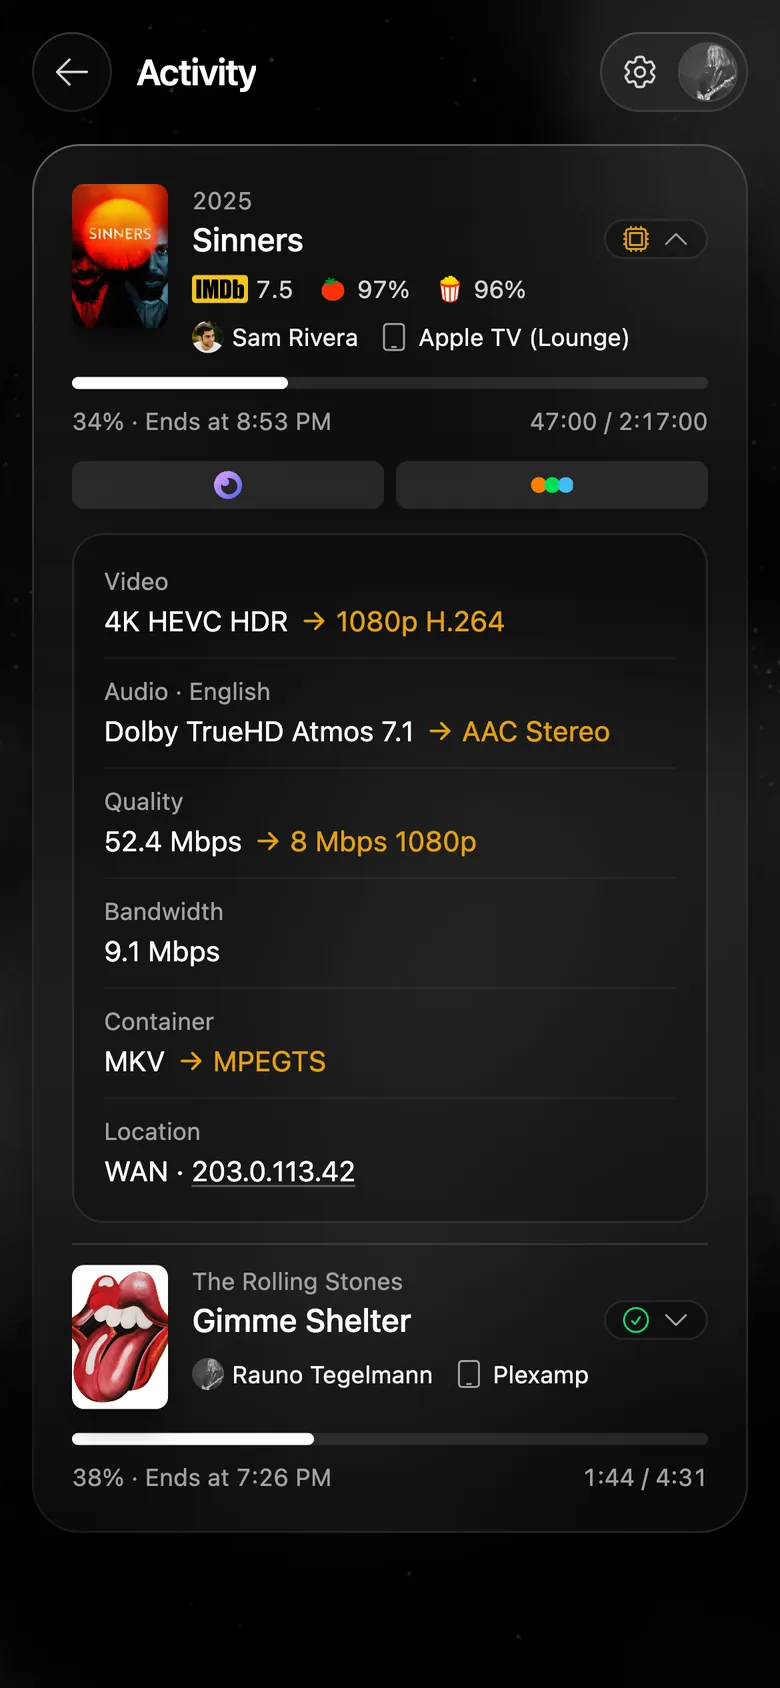
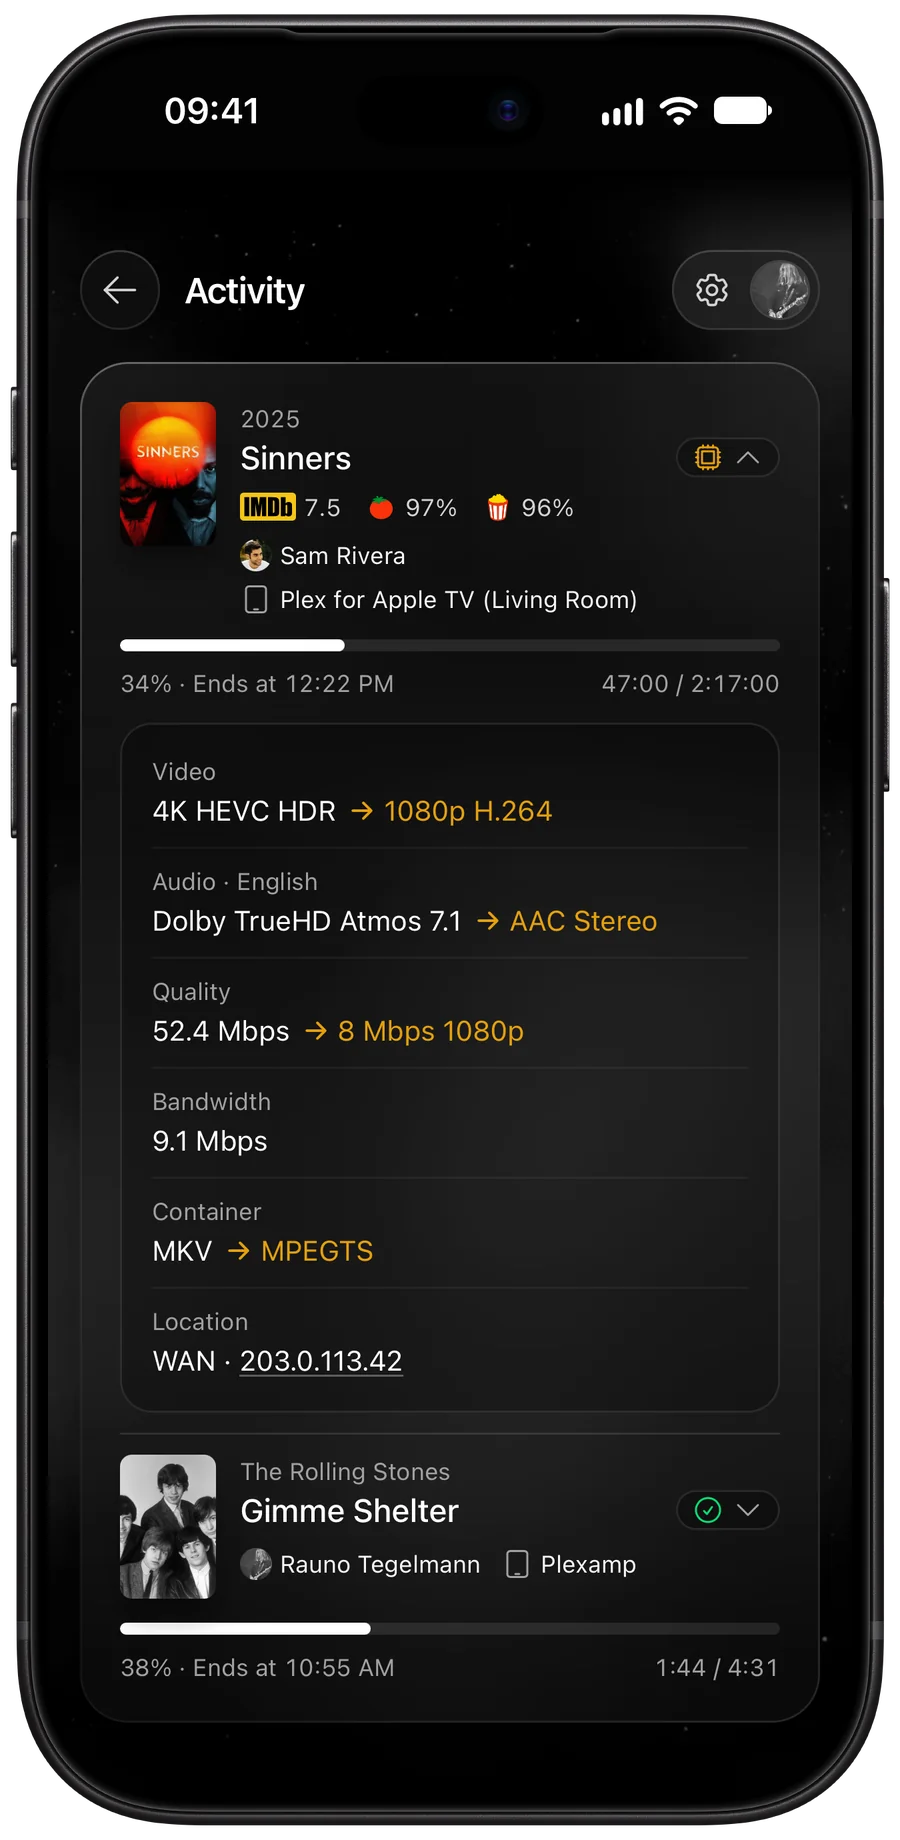
docs(website): use framed iPhone screenshots and tighten the copy
- Phone screenshots taken in the installed web app with the mock server,
  in Apple's iPhone 18 Pro frame, the two of a pair drifting in opposite
  directions
- Nav links highlight the section in view
- Shorter Rewind list, dashboard and binge lines, languages and install note
- Umami Cloud page views, og:site_name, image size and alt, a shorter
  description, and the Plex link to its media page
- The mock server takes artist photos from TheAudioDB, falling back to Deezer

diff --git a/website/index.html b/website/index.html
@@ -6,11 +6,12 @@
     <title>Rewindarr: your Plex and Jellyfin year, rewound</title>
     <meta
       name="description"
-      content="A self-hosted rewind for your media server. Wrapped-style stories for every user, a dashboard, live activity and history for Plex and Jellyfin, from Tautulli or Tracearr."
+      content="A self-hosted rewind for Plex and Jellyfin. Wrapped-style stories for every user, plus a dashboard, live activity and history, from Tautulli or Tracearr."
     />
     <meta name="theme-color" content="#000000" />
     <link rel="canonical" href="https://rewindarr.eu/" />
     <meta property="og:type" content="website" />
+    <meta property="og:site_name" content="Rewindarr" />
     <meta property="og:url" content="https://rewindarr.eu/" />
     <meta property="og:title" content="Rewindarr" />
     <meta
@@ -18,10 +19,22 @@
       content="Your Plex and Jellyfin year, rewound. Free, open source and self-hosted."
     />
     <meta property="og:image" content="https://rewindarr.eu/assets/og.jpg" />
+    <meta property="og:image:width" content="1200" />
+    <meta property="og:image:height" content="630" />
+    <meta
+      property="og:image:alt"
+      content="The Rewindarr logo with the line: Your Plex and Jellyfin year, rewound"
+    />
     <meta name="twitter:card" content="summary_large_image" />
     <link rel="icon" href="assets/rewindarr.svg" type="image/svg+xml" />
     <link rel="apple-touch-icon" href="assets/apple-icon.png" />
     <link rel="stylesheet" href="styles.css" />
+    <script
+      defer
+      src="https://cloud.umami.is/script.js"
+      data-website-id="4a7a21c5-b256-45b1-b7ee-c4c364bb8168"
+      data-domains="rewindarr.eu"
+    ></script>
   </head>
   <body>
     <div class="sky" aria-hidden="true"></div>
@@ -143,19 +156,11 @@
             Each user steps through their year one stat at a time.
           </p>
           <ul class="checks">
-            <li>
-              Top movies, shows and artists, plus the actors and directors.
-            </li>
-            <li>
-              The busiest month, the biggest binge and the favourite hour.
-            </li>
-            <li>
-              How each user ranks against everyone else, and who shares their
-              taste.
-            </li>
-            <li>A viewing personality that sums up the year.</li>
+            <li>The year's favourite movies, shows and music.</li>
+            <li>When and how they watched, all year long.</li>
+            <li>How users rank against each other.</li>
+            <li>A personal viewing personality that sums up the year.</li>
             <li>A summary card to save and share.</li>
-            <li>Custom period, release date and background music.</li>
           </ul>
         </div>
         <div class="phones">
@@ -163,8 +168,8 @@
             <img
               src="assets/rewind-summary.webp"
               alt="A Rewind summary card with a viewing personality, top show, movie and artist, and the highlights of the year"
-              width="780"
-              height="1688"
+              width="900"
+              height="1840"
               loading="lazy"
             />
           </figure>
@@ -172,8 +177,8 @@
             <img
               src="assets/rewind-shows.webp"
               alt="A Rewind story on shows: total time, share of playtime, episodes watched and the favourite show"
-              width="780"
-              height="1688"
+              width="900"
+              height="1840"
               loading="lazy"
             />
           </figure>
@@ -185,8 +190,8 @@
           <p class="eyebrow">Dashboard</p>
           <h2>Your server's favourites, all year round.</h2>
           <p class="showcase-lead">
-            The most watched movies, shows and music, and who's watching the
-            most, from now back to day one.
+            The top movies, shows and music, and your biggest watchers, from the
+            past week back to day one.
           </p>
           <ul class="checks">
             <li>Ratings from IMDb, TMDB and Rotten Tomatoes on every title.</li>
@@ -199,8 +204,8 @@
             <img
               src="assets/dashboard-phone.webp"
               alt="The movie dashboard for the past year, ranking the most watched movies with ratings, watch time, plays and users"
-              width="780"
-              height="1688"
+              width="900"
+              height="1840"
               loading="lazy"
             />
           </figure>
@@ -208,8 +213,8 @@
             <img
               src="assets/dashboard-users.webp"
               alt="The users dashboard for the past year, ranking everyone by watch time with their plays and requests"
-              width="780"
-              height="1688"
+              width="900"
+              height="1840"
               loading="lazy"
             />
           </figure>
@@ -226,7 +231,9 @@
             browse and search past plays and requests.
           </p>
           <ul class="checks">
-            <li>Binges grouped together, so a season reads as one.</li>
+            <li>
+              Back-to-back plays of one show or artist grouped into a binge.
+            </li>
             <li>Play time, plays, requests and users for any period.</li>
           </ul>
         </div>
@@ -235,8 +242,8 @@
             <img
               src="assets/activity-phone.webp"
               alt="The activity page with a movie being transcoded, its stream details open, and a song playing below"
-              width="780"
-              height="1688"
+              width="900"
+              height="1840"
               loading="lazy"
             />
           </figure>
@@ -244,8 +251,8 @@
             <img
               src="assets/history-phone.webp"
               alt="The history page with play time, plays and users for the last 30 days, followed by recent plays"
-              width="780"
-              height="1688"
+              width="900"
+              height="1840"
               loading="lazy"
             />
           </figure>
@@ -311,8 +318,8 @@
             </svg>
             <h3>Six languages</h3>
             <p>
-              English (UK and US), Estonian, French, German, Italian and
-              Spanish, following each user's browser language.
+              English, Estonian, French, German, Italian and Spanish, following
+              each user's browser language.
             </p>
           </article>
           <article class="feature">
@@ -340,7 +347,7 @@
           <div class="compat-row">
             <a
               class="compat-logo-link"
-              href="https://www.plex.tv"
+              href="https://www.plex.tv/your-media/"
               target="_blank"
               rel="noopener"
             >
@@ -475,7 +482,7 @@
             >
               <path d="M4.5 11.5 11.5 4.5M5.5 4.5h6v6" /></svg
           ></a>
-          for optional settings and how to update.
+          for optional settings.
         </p>
       </section>
 
@@ -551,6 +558,29 @@
 
       updateNav()
       window.addEventListener('scroll', updateNav, { passive: true })
+
+      // Highlights the link of the section a third of the way down the
+      // screen, and none over the sections without one
+      const navLinks = [...document.querySelectorAll('.nav-links a')]
+      const updateCurrent = () => {
+        const line = window.innerHeight / 3
+
+        navLinks.forEach((link) => {
+          const { top, bottom } = document
+            .querySelector(link.hash)
+            .getBoundingClientRect()
+
+          if (top <= line && bottom > line) {
+            link.setAttribute('aria-current', 'location')
+          } else {
+            link.removeAttribute('aria-current')
+          }
+        })
+      }
+
+      updateCurrent()
+      window.addEventListener('scroll', updateCurrent, { passive: true })
+      window.addEventListener('resize', updateCurrent)
 
       // The page ships with recent numbers and swaps in live ones when it
       // can. A failed request, such as a rate-limited one, keeps them.

diff --git a/website/styles.css b/website/styles.css
@@ -272,8 +272,14 @@ code {
     text-decoration: none;
     transition: color 0.2s;
 
-    &:hover {
+    &:hover,
+    &[aria-current] {
       color: var(--text);
+    }
+
+    &[aria-current] {
+      text-decoration: underline 2px var(--gold);
+      text-underline-offset: 0.5rem;
     }
   }
 }
@@ -385,7 +391,8 @@ main > section {
   gap: 2.5rem;
 }
 
-/* Phone-sized screenshots, a pair staggered so they read as a set */
+/* Screenshots of the installed app in an iPhone frame, a pair staggered so
+   they read as a set */
 .phones {
   display: flex;
   justify-content: center;
@@ -396,17 +403,11 @@ main > section {
 .phone {
   flex: 0 1 17rem;
   margin: 0;
-  padding: 0.375rem;
-  border-radius: 2.25rem;
-  background: var(--glass);
-  box-shadow:
-    inset 0 0 0 1px var(--line),
-    0 40px 80px -30px rgb(0 0 0 / 80%);
 
   img {
     width: 100%;
     height: auto;
-    border-radius: 1.875rem;
+    filter: drop-shadow(0 30px 40px rgb(0 0 0 / 60%));
   }
 
   & + & {
@@ -414,20 +415,20 @@ main > section {
   }
 }
 
-/* Phones drift against the scroll, the second of a pair further, so they
-   slide past each other */
+/* Phones drift against the scroll in opposite directions, so a pair slides
+   past each other */
 @supports (animation-timeline: view()) {
   .phone {
-    animation: drift-phone linear both;
+    animation: drift-phone-up linear both;
     animation-timeline: view();
   }
 
   .phone + .phone {
-    animation-name: drift-phone-far;
+    animation-name: drift-phone-down;
   }
 }
 
-@keyframes drift-phone {
+@keyframes drift-phone-up {
   from {
     translate: 0 3rem;
   }
@@ -437,13 +438,13 @@ main > section {
   }
 }
 
-@keyframes drift-phone-far {
+@keyframes drift-phone-down {
   from {
-    translate: 0 6rem;
+    translate: 0 -3rem;
   }
 
   to {
-    translate: 0 -6rem;
+    translate: 0 3rem;
   }
 }
 
